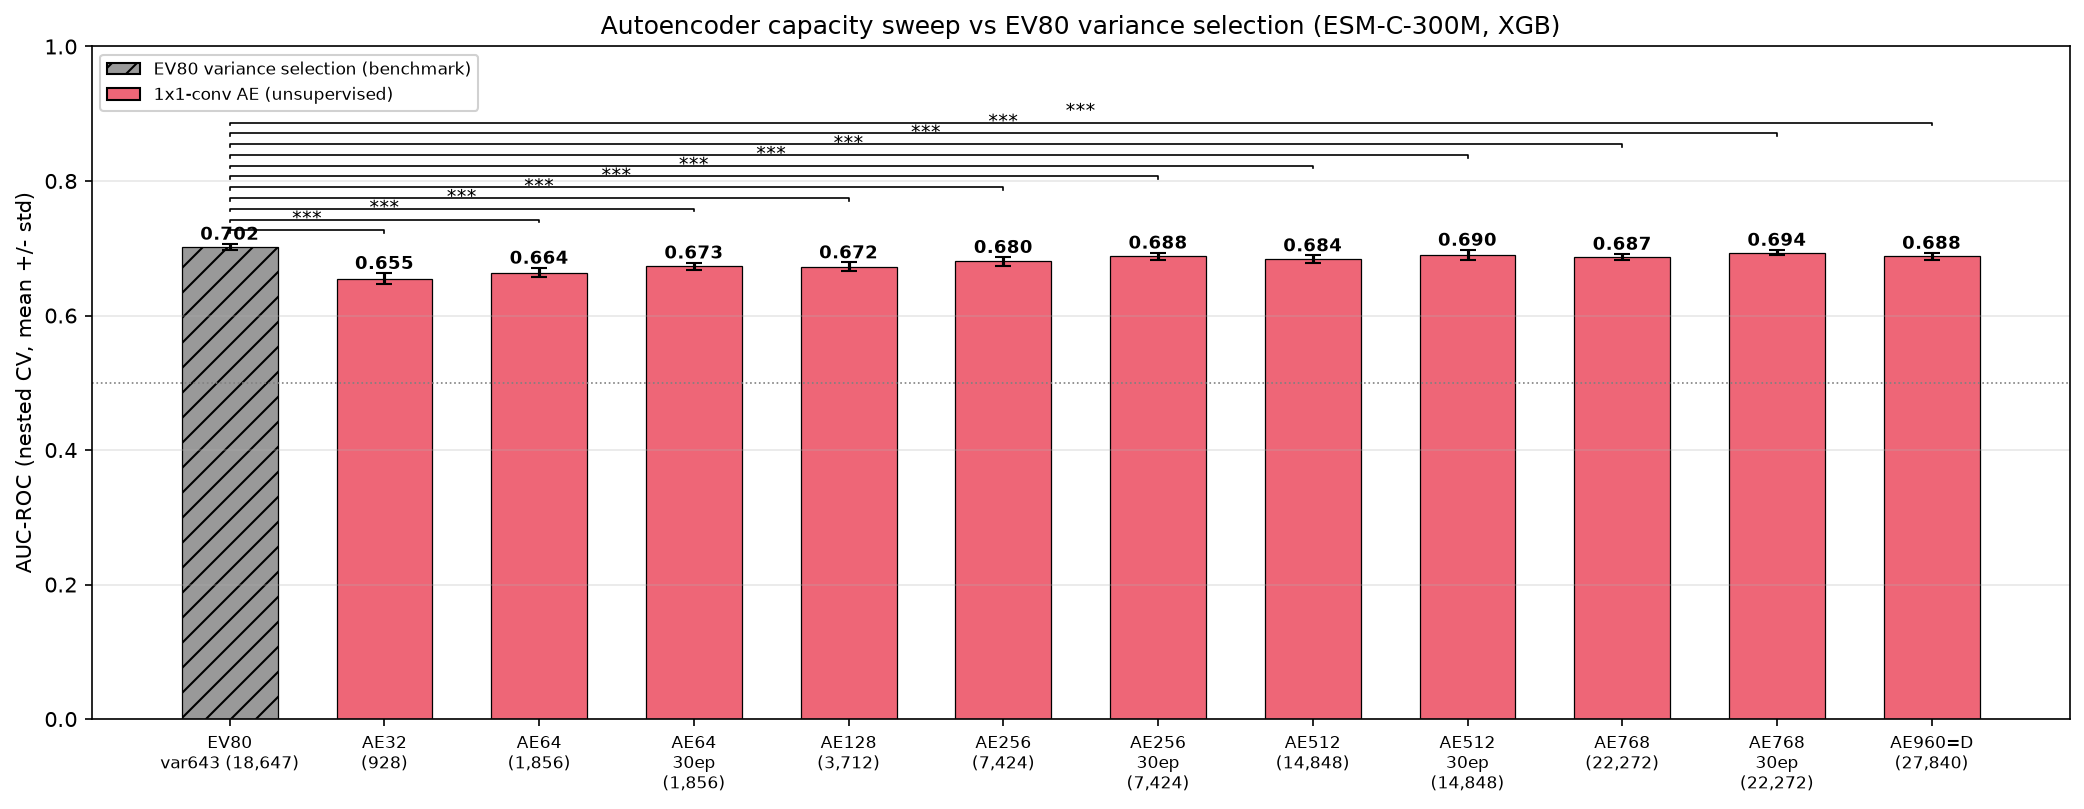
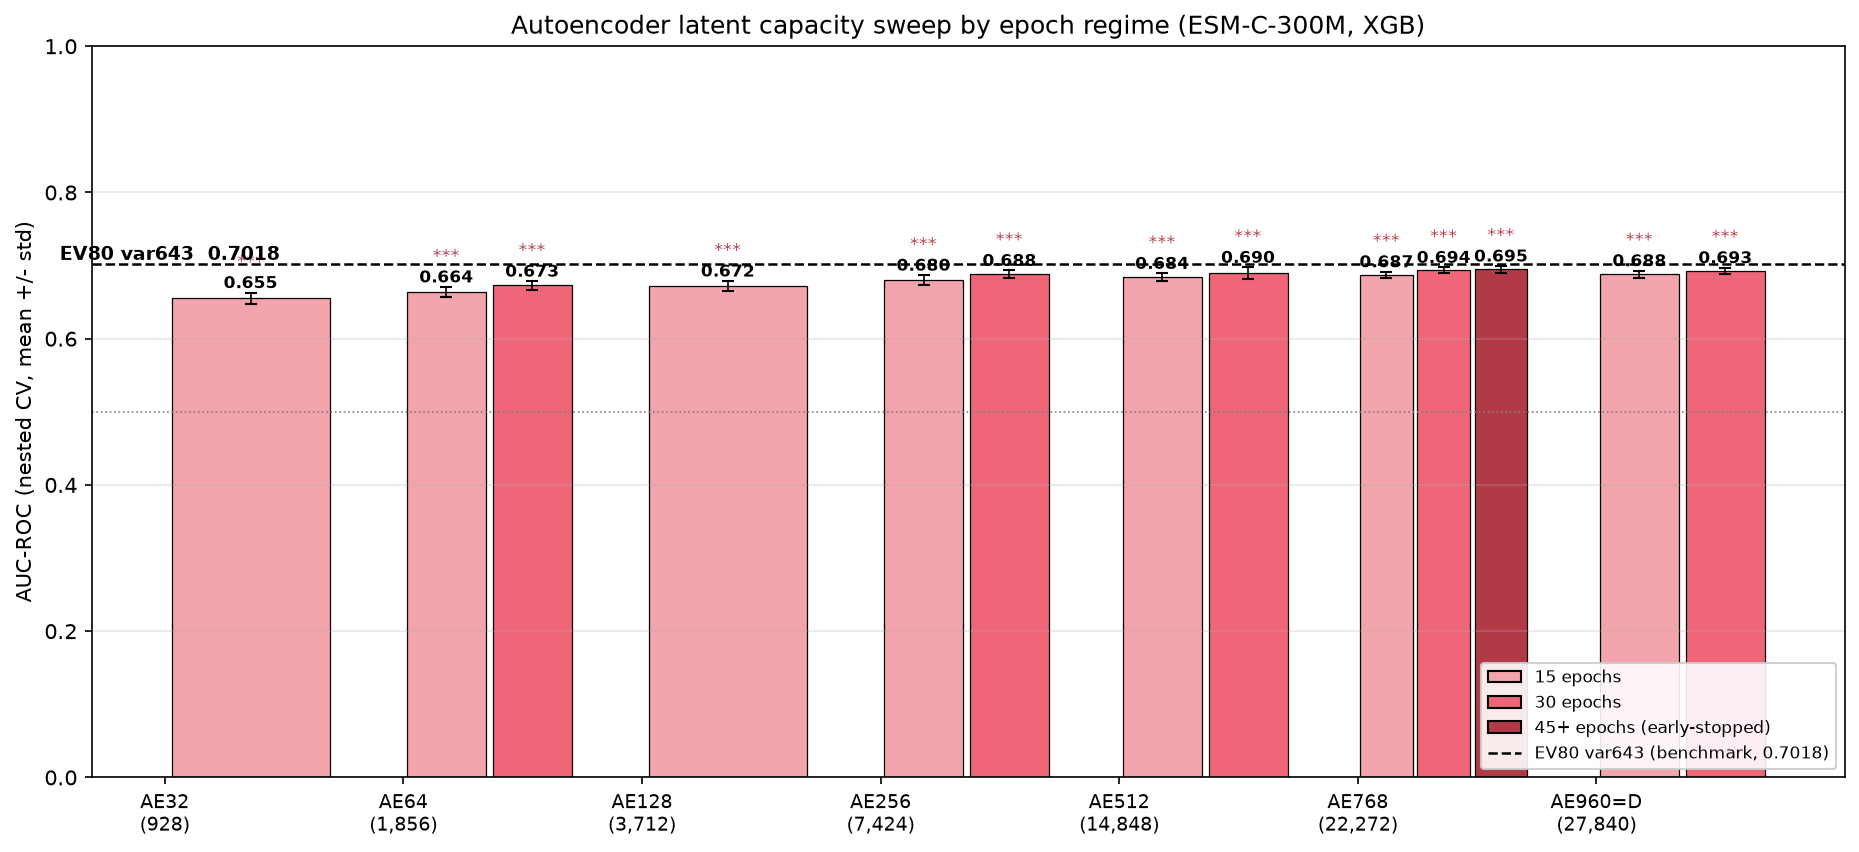
feat(ae): epoch-capacity sweep — grouped latent×epoch bars + saturation curve
- 30_ae_barplot: Fig1 latent×epoch grouped bars with per-arm DeLong stars;
  Fig2 training-time saturation curve (lat768/lat960 vs EV80 benchmark)
- 30_ae_delong: add ae768e45 + ae960e30 arms; e60/e90 excluded as
  byte-identical duplicates (early stop patience 3 converges same epoch)
- outputs: ae_capacity_auc.{png,csv}, ae_epoch_curve.{png,csv}, updated
  ae_delong_pairs.tsv

diff --git a/src/investigation/30_ae_barplot.py b/src/investigation/30_ae_barplot.py
@@ -1,19 +1,26 @@
 #!/usr/bin/env python3
 """
-30_ae_barplot.py — autoencoder capacity-sweep barplot with paired-DeLong
-brackets (25_varfold_barplot style).
+30_ae_barplot.py — full autoencoder experiment results, two figures
+(25_varfold_barplot style, ESM-C esmc300m_win_padtoken only):
 
-Bars (12, left to right, ESM-C esmc300m_win_padtoken only):
-    ref:   EV80 var643 (18,647 feats, benchmark)
-    AE:    lat32, lat64, lat64e30, lat128, lat256, lat256e30,
-           lat512, lat512e30, lat768, lat768e30, lat960 (=D control)
-Values from cv_results JSONs (cv_summary.auc_roc mean/std); brackets from
+Fig 1 — ae_capacity_auc.png: latent x epoch GROUPED bars.
+    x = latent (32, 64, 128, 256, 512, 768, 960=D); bars per epoch regime
+    where data exists (e15 all; e30 lat64/256/512/768/960; 45+ lat768 only
+    — e45/60/90 byte-identical, one rung). EV80 (var643, 0.7018) is the
+    dashed benchmark line. Per-arm DeLong stars (Holm, thesis convention)
+    above each AE bar, taken from 30_ae_delong.py's TSV.
+
+Fig 2 — ae_epoch_curve.png: training-time saturation curve.
+    x = epochs (15, 30, 45+); line for lat768 (all 3 rungs) and lat960
+    (2 rungs); EV80 dashed line. Annotates that e45=e60=e90: early
+    stopping (patience 3) converged, more epochs cannot help.
+
+Values from cv_results JSONs (cv_summary.auc_roc mean/std); stars from
 runs/autoencoder_pilot/results/ae_delong_pairs.tsv (30_ae_delong.py,
-Holm-adjusted, thesis star convention).
-
-Style: ESM-C #EE6677, refs grey, y 0-1, chance line 0.5, value labels.
+Holm-adjusted).
 
 Output: runs/autoencoder_pilot/plots/ae_capacity_auc.{png,csv}
+        runs/autoencoder_pilot/plots/ae_epoch_curve.{png,csv}
 """
 
 import argparse
@@ -29,45 +36,41 @@ from config import PROJECT_ROOT  # noqa: E402
 import matplotlib  # noqa: E402
 matplotlib.use("Agg")
 import matplotlib.pyplot as plt  # noqa: E402
-from matplotlib.patches import Patch  # noqa: E402
 
 R = PROJECT_ROOT / "runs"
 AE_DIR = R / "autoencoder_pilot" / "models" / "autoencoder"
-ESMC = "#EE6677"
-REF_GRAY = "#999999"
 
-# arm -> (glob/path, short label)
-ARMS = {
-    "var643": (R / "is_encodings_helping_v2/models/vardims/"
-               "cv_results_xgb_emb_esmc300m_win_padtoken_vardims_ev80_var643_*.json",
-               "EV80\nvar643 (18,647)"),
-    "ae32": (AE_DIR / "cv_results_xgb_emb_esmc300m_win_padtoken_autoencoder_lat32_*.json",
-             "AE32\n(928)"),
-    "ae64": (AE_DIR / "cv_results_xgb_emb_esmc300m_win_padtoken_autoencoder_lat64_20261026_*.json",
-             "AE64\n(1,856)"),
-    "ae64e30": (AE_DIR / "cv_results_xgb_emb_esmc300m_win_padtoken_autoencoder_lat64_20261029_*.json",
-                "AE64\n30ep\n(1,856)"),
-    "ae128": (AE_DIR / "cv_results_xgb_emb_esmc300m_win_padtoken_autoencoder_lat128_*.json",
-              "AE128\n(3,712)"),
-    "ae256": (AE_DIR / "cv_results_xgb_emb_esmc300m_win_padtoken_autoencoder_lat256_20261104_*.json",
-              "AE256\n(7,424)"),
-    "ae256e30": (AE_DIR / "cv_results_xgb_emb_esmc300m_win_padtoken_autoencoder_lat256_20261108_*.json",
-                 "AE256\n30ep\n(7,424)"),
-    "ae512": (AE_DIR / "cv_results_xgb_emb_esmc300m_win_padtoken_autoencoder_lat512_20261104_*.json",
-              "AE512\n(14,848)"),
-    "ae512e30": (AE_DIR / "cv_results_xgb_emb_esmc300m_win_padtoken_autoencoder_lat512_20261108_*.json",
-                 "AE512\n30ep\n(14,848)"),
-    "ae768": (AE_DIR / "cv_results_xgb_emb_esmc300m_win_padtoken_autoencoder_lat768_20261107_*.json",
-              "AE768\n(22,272)"),
-    "ae768e30": (AE_DIR / "cv_results_xgb_emb_esmc300m_win_padtoken_autoencoder_lat768_20261108_*.json",
-                 "AE768\n30ep\n(22,272)"),
-    "ae960": (AE_DIR / "cv_results_xgb_emb_esmc300m_win_padtoken_autoencoder_lat960_*.json",
-              "AE960=D\n(27,840)"),
+# ESM-C color family, darkening with epochs
+COL = {15: "#F2A3AB", 30: "#EE6677", 45: "#B23A47"}
+EP_LABEL = {15: "15ep", 30: "30ep", 45: "45+ep\n(early-stopped)"}
+EV80 = 0.7018
+
+# arm -> exact path (timestamp disambiguates e15/e30 twins)
+ARM = {
+    "ae32":    AE_DIR / "cv_results_xgb_emb_esmc300m_win_padtoken_autoencoder_lat32_*.json",
+    "ae64":    AE_DIR / "cv_results_xgb_emb_esmc300m_win_padtoken_autoencoder_lat64_20261026_*.json",
+    "ae64e30": AE_DIR / "cv_results_xgb_emb_esmc300m_win_padtoken_autoencoder_lat64_20261029_*.json",
+    "ae128":   AE_DIR / "cv_results_xgb_emb_esmc300m_win_padtoken_autoencoder_lat128_*.json",
+    "ae256":   AE_DIR / "cv_results_xgb_emb_esmc300m_win_padtoken_autoencoder_lat256_20261104_*.json",
+    "ae256e30": AE_DIR / "cv_results_xgb_emb_esmc300m_win_padtoken_autoencoder_lat256_20261108_*.json",
+    "ae512":   AE_DIR / "cv_results_xgb_emb_esmc300m_win_padtoken_autoencoder_lat512_20261104_*.json",
+    "ae512e30": AE_DIR / "cv_results_xgb_emb_esmc300m_win_padtoken_autoencoder_lat512_20261108_*.json",
+    "ae768":   AE_DIR / "cv_results_xgb_emb_esmc300m_win_padtoken_autoencoder_lat768_20261107_*.json",
+    "ae768e30": AE_DIR / "cv_results_xgb_emb_esmc300m_win_padtoken_autoencoder_lat768_20261108_*.json",
+    "ae768e45": AE_DIR / "cv_results_xgb_emb_esmc300m_win_padtoken_autoencoder_lat768_20261112_*.json",
+    "ae960":   AE_DIR / "cv_results_xgb_emb_esmc300m_win_padtoken_autoencoder_lat960_20261108_*.json",
+    "ae960e30": AE_DIR / "cv_results_xgb_emb_esmc300m_win_padtoken_autoencoder_lat960_20261114_*.json",
 }
-ORDER = ["var643",
-         "ae32", "ae64", "ae64e30", "ae128", "ae256", "ae256e30",
-         "ae512", "ae512e30", "ae768", "ae768e30", "ae960"]
-REFS = {"var643"}
+# latent -> {epoch_regime: arm}; 45 covers e45/60/90 (byte-identical)
+GROUPS = [
+    ("AE32\n(928)",     {15: "ae32"}),
+    ("AE64\n(1,856)",   {15: "ae64", 30: "ae64e30"}),
+    ("AE128\n(3,712)",  {15: "ae128"}),
+    ("AE256\n(7,424)",  {15: "ae256", 30: "ae256e30"}),
+    ("AE512\n(14,848)", {15: "ae512", 30: "ae512e30"}),
+    ("AE768\n(22,272)", {15: "ae768", 30: "ae768e30", 45: "ae768e45"}),
+    ("AE960=D\n(27,840)", {15: "ae960", 30: "ae960e30"}),
+]
 
 
 def load_arm(pat):
@@ -76,115 +79,167 @@ def load_arm(pat):
         return None
     d = json.loads(hits[-1].read_text())
     s = d["cv_summary"]["auc_roc"]
-    return float(s["mean"]), float(s["std"]), hits[-1].name
+    return float(s["mean"]), float(s["std"])
+
+
+def load_stars():
+    out = {}
+    p = R / "autoencoder_pilot" / "results" / "ae_delong_pairs.tsv"
+    if not p.exists():
+        return out
+    with open(p) as fh:
+        for r in csv.DictReader(fh, delimiter="\t"):
+            out[r["arm_a"]] = r["star"]
+    return out
 
 
 def main():
     ap = argparse.ArgumentParser(description=__doc__.splitlines()[1])
-    ap.add_argument("--pairs", default=None,
-                    help="default: runs/autoencoder_pilot/results/"
-                         "ae_delong_pairs.tsv")
-    ap.add_argument("--out-prefix", default=None,
-                    help="default: runs/autoencoder_pilot/plots/ae_capacity")
+    ap.add_argument("--out-dir", default=None,
+                    help="default: runs/autoencoder_pilot/plots")
     args = ap.parse_args()
-    pairs_tsv = Path(args.pairs) if args.pairs else (
-        R / "autoencoder_pilot" / "results" / "ae_delong_pairs.tsv")
-    out_prefix = Path(args.out_prefix) if args.out_prefix else (
-        R / "autoencoder_pilot" / "plots" / "ae_capacity")
+    out_dir = Path(args.out_dir) if args.out_dir else (
+        R / "autoencoder_pilot" / "plots")
+    out_dir.mkdir(parents=True, exist_ok=True)
 
     print("Loading arms ...")
-    vals, rows = {}, []
-    for arm in ORDER:
-        got = load_arm(ARMS[arm][0])
+    vals = {}
+    for name, pat in ARM.items():
+        got = load_arm(pat)
         if got is None:
-            print(f"  WARN: missing {arm} — bar skipped")
+            print(f"  WARN: missing {name} — skipped")
             continue
-        vals[arm] = got
-        print(f"  {arm:<10} {got[0]:.4f} +/- {got[1]:.4f}")
+        vals[name] = got
+    stars = load_stars()
+    for (lbl, eps) in GROUPS:
+        for ep, arm in eps.items():
+            m, s = vals[arm]
+            print(f"  {arm:<10} {lbl.splitlines()[0]:>8} {ep}ep "
+                  f"{m:.4f} +/- {s:.4f} [{stars.get(arm, '?')}]")
 
-    fig, ax = plt.subplots(figsize=(14, 5.5))
-    arm_x = {}
-    for i, arm in enumerate(ORDER):
-        if arm not in vals:
-            continue
-        mean, std, _ = vals[arm]
-        color = REF_GRAY if arm in REFS else ESMC
-        hatch = "//" if arm in REFS else None
-        ax.bar(i, mean, yerr=std, capsize=4, width=0.62, color=color,
-               edgecolor="black", linewidth=0.6, hatch=hatch)
-        ax.text(i, mean + std + 0.006, f"{mean:.3f}",
-                ha="center", fontsize=8.5, fontweight="bold")
-        arm_x[arm] = i
-        rows.append({"arm": arm, "auc_roc": f"{mean:.6f}",
-                     "std": f"{std:.6f}"})
-
-    xs = sorted(arm_x.values())
-    ax.set_xticks(xs)
-    ax.set_xticklabels([ARMS[a][1] for a in ORDER if a in arm_x], fontsize=8)
+    # ── Fig 1: latent x epoch grouped bars ──
+    fig, ax = plt.subplots(figsize=(12.5, 5.8))
+    x0 = 0
+    for lbl, eps_map in GROUPS:
+        eps = sorted(eps_map)
+        n = len(eps)
+        width = 0.72 / n
+        for j, ep in enumerate(eps):
+            arm = eps_map[ep]
+            m, s = vals[arm]
+            xi = x0 + (j + 0.5) * width
+            ax.bar(xi, m, width=width * 0.92, color=COL[ep],
+                   edgecolor="black", linewidth=0.6)
+            ax.errorbar(xi, m, yerr=s, color="black", capsize=3, lw=0.8)
+            ax.text(xi, m + s + 0.006, f"{m:.3f}", ha="center",
+                    fontsize=8, fontweight="bold")
+            if arm in stars:
+                ax.text(xi, m + s + 0.030, stars[arm], ha="center",
+                        va="bottom", fontsize=8, color="#B23A47")
+        x0 += 1
+    ax.axhline(EV80, color="black", lw=1.2, ls="--")
+    ax.text(-0.44, EV80 + 0.006, "EV80 var643  0.7018", fontsize=9,
+            fontweight="bold")
+    ax.set_xticks(range(len(GROUPS)))
+    ax.set_xticklabels([g[0] for g in GROUPS], fontsize=9)
     ax.set_ylabel("AUC-ROC (nested CV, mean +/- std)")
-    ax.grid(axis="y", alpha=0.3)
-
-    # ── DeLong brackets (stacked per family) ──
-    if pairs_tsv.exists():
-        with open(pairs_tsv) as fh:
-            pairs = list(csv.DictReader(fh, delimiter="\t"))
-        data_top = max(m + s for m, s, _ in vals.values())
-        base, step, fam_lvl = data_top + 0.02, 0.016, {}
-        for r in pairs:
-            a, b = r["arm_a"], r["arm_b"]
-            if a not in arm_x or b not in arm_x:
-                print(f"  WARN: pair {a}~{b} has no bar — skipped")
-                continue
-            lvl = fam_lvl.get(r["family"], 0)
-            fam_lvl[r["family"]] = lvl + 1
-            y = base + lvl * step
-            xa, xb = sorted((arm_x[a], arm_x[b]))
-            ax.plot([xa, xa, xb, xb], [y - 0.004, y, y, y - 0.004],
-                    lw=0.8, color="black")
-            ax.text((xa + xb) / 2, y + 0.002, r["star"],
-                    ha="center", va="bottom", fontsize=9)
-
     ax.set_ylim(0, 1)
     ax.axhline(0.5, color="gray", lw=0.8, ls=":")
-    ax.legend(handles=[
-        Patch(facecolor=REF_GRAY, hatch="//", edgecolor="black",
-              label="EV80 variance selection (benchmark)"),
-        Patch(facecolor=ESMC, edgecolor="black",
-              label="1x1-conv AE (unsupervised)"),
-    ], loc="upper left", fontsize=8, framealpha=0.9)
-    ax.set_title("Autoencoder capacity sweep vs EV80 variance selection "
+    ax.grid(axis="y", alpha=0.3)
+    ax.set_title("Autoencoder latent capacity sweep by epoch regime "
                  "(ESM-C-300M, XGB)", fontsize=12)
+    ax.legend(handles=[
+        plt.Rectangle((0, 0), 1, 1, facecolor=COL[15], edgecolor="black",
+                      label="15 epochs"),
+        plt.Rectangle((0, 0), 1, 1, facecolor=COL[30], edgecolor="black",
+                      label="30 epochs"),
+        plt.Rectangle((0, 0), 1, 1, facecolor=COL[45], edgecolor="black",
+                      label="45+ epochs (early-stopped)"),
+        plt.Line2D([0], [0], color="black", ls="--", lw=1.2,
+                   label="EV80 var643 (benchmark, 0.7018)"),
+    ], loc="lower right", fontsize=8, framealpha=0.9)
     fig.tight_layout()
-
-    out_prefix.parent.mkdir(parents=True, exist_ok=True)
-    png = Path(str(out_prefix) + "_auc.png")
-    fig.savefig(png, dpi=150, bbox_inches="tight")
+    png1 = out_dir / "ae_capacity_auc.png"
+    fig.savefig(png1, dpi=150, bbox_inches="tight")
     plt.close(fig)
-    csvp = Path(str(out_prefix) + "_auc.csv")
-    with open(csvp, "w", newline="") as fh:
-        w = csv.DictWriter(fh, fieldnames=["arm", "auc_roc", "std"])
-        w.writeheader()
-        w.writerows(rows)
-    print(f"  wrote {png}")
-    print(f"  wrote {csvp}")
+    with open(out_dir / "ae_capacity_auc.csv", "w", newline="") as fh:
+        w = csv.writer(fh)
+        w.writerow(["arm", "latent", "epoch", "auc_roc", "std"])
+        for lbl, eps in GROUPS:
+            for ep, arm in eps.items():
+                m, s = vals[arm]
+                w.writerow([arm, lbl.splitlines()[0], ep, f"{m:.6f}",
+                            f"{s:.6f}"])
+    print(f"  wrote {png1}")
+
+    # ── Fig 2: epoch saturation curve ──
+    fig, ax = plt.subplots(figsize=(7.5, 5.5))
+    series = [
+        ("AE768 (22,272 feats)", ESMC := "#EE6677",
+         [("ae768", 15), ("ae768e30", 30), ("ae768e45", 45)]),
+        ("AE960=D (27,840 feats)", "#4477AA",
+         [("ae960", 15), ("ae960e30", 30)]),
+    ]
+    for lbl, color, pts in series:
+        xs = [p[1] for p in pts]
+        ys = [vals[p[0]][0] for p in pts]
+        ss = [vals[p[0]][1] for p in pts]
+        ax.errorbar(xs, ys, yerr=ss, marker="o", ms=6, capsize=4,
+                    lw=1.6, color=color, label=lbl)
+        # lat960 hugs lat768 — label below-right so the texts don't collide
+        dy = -13 if "960" in lbl else 6
+        for x, y in zip(xs, ys):
+            ax.annotate(f"{y:.4f}", (x, y), textcoords="offset points",
+                        xytext=(8, dy), fontsize=8)
+    ax.axhline(EV80, color="black", lw=1.2, ls="--")
+    ax.text(30.2, EV80 + 0.004, "EV80 var643 0.7018", fontsize=9,
+            fontweight="bold")
+    ax.set_xticks([15, 30, 45])
+    ax.set_xticklabels(["15", "30", "45 (=60=90,\nearly-stopped)"])
+    ax.set_xlabel("Max AE training epochs (early stop patience 3)")
+    ax.set_ylabel("AUC-ROC (nested CV, mean +/- std)")
+    ax.set_ylim(0.6, 0.75)
+    ax.axhline(0.5, color="gray", lw=0.8, ls=":")
+    ax.grid(axis="y", alpha=0.3)
+    ax.set_title("AE training-time saturation at latent 768 / 960",
+                 fontsize=12)
+    ax.legend(loc="lower right", fontsize=9, framealpha=0.9)
+    fig.tight_layout()
+    png2 = out_dir / "ae_epoch_curve.png"
+    fig.savefig(png2, dpi=150, bbox_inches="tight")
+    plt.close(fig)
+    with open(out_dir / "ae_epoch_curve.csv", "w", newline="") as fh:
+        w = csv.writer(fh)
+        w.writerow(["arm", "latent", "epoch", "auc_roc", "std"])
+        for lbl, _, pts in series:
+            for arm, ep in pts:
+                m, s = vals[arm]
+                w.writerow([arm, lbl.split()[0], ep, f"{m:.6f}", f"{s:.6f}"])
+    print(f"  wrote {png2}")
 
     print("\n" + "=" * 60)
-    print("  CAPTION (paste below the figure):")
+    print("  CAPTIONS (paste below each figure):")
     print("=" * 60)
-    print("AE = plain (non-variational) 1x1-conv bottleneck autoencoder: "
-          "shared per-position Linear encoder D->hidden->latent, masked-MSE "
-          "reconstruction (pad slots excluded), trained fold-nested on train "
-          "rows only; 15 epochs unless marked 30ep. Features = 29 x latent "
-          "(label). AE960=D is the no-compression control (latent equals "
-          "embedding dim; only the non-linear transform remains). EV80 "
-          "var643 = fold-nested top-variance dims "
-          "(80% EV, 18,647 feats), the benchmark. Brackets: paired DeLong "
-          "on pooled OOF "
-          "(n=46,617), Holm-adjusted within family (* p<.05, ** p<.01, "
-          "*** p<.001). No AE arm matches EV80 (best lat768-30ep: d=-0.008, "
-          "***); even the no-compression control loses (d=-0.014, ***), "
-          "showing the reconstruction objective — not compression — discards "
+    print("FIG 1: AE = plain (non-variational) 1x1-conv bottleneck "
+          "autoencoder: shared per-position Linear encoder "
+          "D->hidden->latent, masked-MSE reconstruction (pad slots "
+          "excluded), trained fold-nested on train rows only; one bar per "
+          "epoch regime with data (features = 29 x latent, labels). "
+          "AE960=D is the no-compression control. EV80 var643 = "
+          "fold-nested top-variance dims (80% EV, 18,647 feats), dashed "
+          "benchmark line. Stars above bars: paired DeLong on pooled OOF "
+          "(n=46,617) vs EV80, Holm-adjusted within family (* p<.05, "
+          "** p<.01, *** p<.001) — every arm ***. No arm reaches EV80: "
+          "best lat768-45ep d=-0.0067 (p=1.3e-06); even the "
+          "no-compression control loses, so the reconstruction objective "
+          "- not compression, not capacity, not training time - discards "
           "discriminative directions.")
+    print("FIG 2: Training-time saturation. Early stopping (patience 3 on "
+          "val masked-MSE) converges at the same epoch regardless of the "
+          "cap: lat768 at 45/60/90 epochs is byte-identical (AUC 0.6950), "
+          "so 'train longer' cannot close the gap to EV80 (0.7018). "
+          "15->30 epochs gained +0.0065/+0.0051 (lat768/lat960); beyond "
+          "30 the curve is flat.")
     print("=" * 60)
 
 

diff --git a/src/investigation/30_ae_delong.py b/src/investigation/30_ae_delong.py
@@ -60,7 +60,12 @@ AE_ARMS = [
     ("ae512e30", "cv_results_xgb_emb_esmc300m_win_padtoken_autoencoder_lat512_20261108_025159.json"),
     ("ae768",    "cv_results_xgb_emb_esmc300m_win_padtoken_autoencoder_lat768_20261107_211430.json"),
     ("ae768e30", "cv_results_xgb_emb_esmc300m_win_padtoken_autoencoder_lat768_20261108_043730.json"),
+    ("ae768e45", "cv_results_xgb_emb_esmc300m_win_padtoken_autoencoder_lat768_20261112_220031.json"),
     ("ae960",    "cv_results_xgb_emb_esmc300m_win_padtoken_autoencoder_lat960_20261108_214006.json"),
+    ("ae960e30", "cv_results_xgb_emb_esmc300m_win_padtoken_autoencoder_lat960_20261114_014006.json"),
+    # e60/e90 (20261113_200309, 20261114_013446) byte-identical to e45:
+    # early stop (patience 3) converges at the same epoch regardless of cap,
+    # deterministic seed -> same weights. Excluded as duplicates.
 ]
 REF_ARMS = [
     ("var643", R / "is_encodings_helping_v2/models/vardims/"
